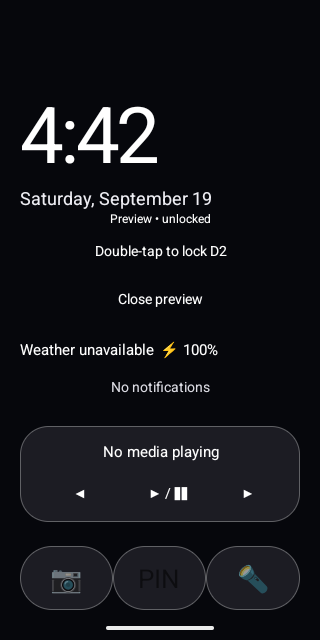
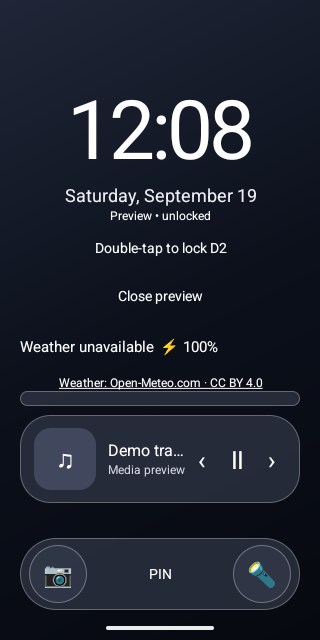
Refresh v0.4 app screenshots and gallery
* Capture v0.4 customization and visible media screenshots

* Capture shortcut settings on small emulator screen

* Keep screenshot settings fully visible on small emulator

* Fix screenshot scroll matcher import

* Frame shortcut and privacy settings in screenshot

* Refresh v0.4 screenshot gallery and documentation

diff --git a/app/src/androidTest/java/app/d2lock/ScreenshotCaptureTest.kt b/app/src/androidTest/java/app/d2lock/ScreenshotCaptureTest.kt
@@ -5,9 +5,13 @@ import android.app.ActivityManager
 import android.app.AlertDialog
 import android.content.Intent
 import android.graphics.Bitmap
+import android.media.MediaMetadata
+import android.media.session.MediaSession
+import android.media.session.PlaybackState
 import android.os.ParcelFileDescriptor
 import android.os.SystemClock
 import android.view.WindowManager
+import android.widget.ScrollView
 import androidx.test.core.app.ActivityScenario
 import androidx.test.espresso.Espresso.onView
 import androidx.test.espresso.action.ViewActions.*
@@ -18,6 +22,7 @@ import androidx.test.platform.app.InstrumentationRegistry
 import app.d2lock.lockscreen.LockScreenActivity
 import app.d2lock.root.RootKiosk
 import app.d2lock.security.PinStore
+import app.d2lock.Prefs
 import org.junit.Assert.*
 import org.junit.Assume.assumeTrue
 import org.junit.Test
@@ -61,12 +66,38 @@ class ScreenshotCaptureTest {
         assertFalse("Use a fresh emulator", pinFile.exists())
         context.getSharedPreferences("lock_preferences", 0).edit().clear().commit()
         PinStore(context).create("246810".toCharArray())
+        ParcelFileDescriptor.AutoCloseInputStream(instrumentation.uiAutomation.executeShellCommand(
+            "cmd notification allow_listener app.d2lock/app.d2lock.notifications.LockNotificationListener"
+        )).use { it.readBytes() }
+        val mediaSession = MediaSession(context, "D2ScreenshotMedia").apply {
+            setMetadata(MediaMetadata.Builder()
+                .putString(MediaMetadata.METADATA_KEY_TITLE, "Demo track")
+                .putString(MediaMetadata.METADATA_KEY_ARTIST, "Media preview")
+                .build())
+            setPlaybackState(PlaybackState.Builder()
+                .setActions(PlaybackState.ACTION_PLAY or PlaybackState.ACTION_PAUSE)
+                .setState(PlaybackState.STATE_PLAYING, 0L, 1f).build())
+            isActive = true
+        }
         try {
             ActivityScenario.launch(MainActivity::class.java).use { scenario ->
+                scenario.onActivity {
+                    it.window.setFlags(WindowManager.LayoutParams.FLAG_FULLSCREEN,
+                        WindowManager.LayoutParams.FLAG_FULLSCREEN)
+                }
                 onView(withHint("6-digit D2 PIN")).inRoot(isDialog()).perform(typeText("246810"), closeSoftKeyboard())
                 onView(withText("Unlock")).inRoot(isDialog()).perform(click())
                 waitUntil { runCatching { onView(withText("Change D2 PIN")).check(androidx.test.espresso.assertion.ViewAssertions.matches(isDisplayed())); true }.getOrDefault(false) }
                 capture(scenario, "01-settings")
+                onView(withText("When D2 is locked")).perform(scrollTo())
+                capture(scenario, "05-customization")
+                onView(withText("Right action")).perform(scrollTo())
+                scenario.onActivity { activity ->
+                    // The root content is a ScrollView; advance just enough to show both actions.
+                    val settings = (activity.findViewById<android.view.ViewGroup>(android.R.id.content)).getChildAt(0) as ScrollView
+                    settings.scrollBy(0, (125 * activity.resources.displayMetrics.density).toInt())
+                }
+                capture(scenario, "06-shortcuts")
             }
             ActivityScenario.launch<LockScreenActivity>(Intent(context, LockScreenActivity::class.java).putExtra("preview", true)).use { scenario ->
                 SystemClock.sleep(1500)
@@ -85,6 +116,10 @@ class ScreenshotCaptureTest {
                 scenario.onActivity { task = it.taskId }
                 TestDevice.focusTask(task)
                 waitUntil { context.getSystemService(ActivityManager::class.java).lockTaskModeState == ActivityManager.LOCK_TASK_MODE_LOCKED }
+                waitUntil { runCatching {
+                    onView(withText("Demo track")).check(androidx.test.espresso.assertion.ViewAssertions.matches(isDisplayed()))
+                    true
+                }.getOrDefault(false) }
                 capture(scenario, "03-kiosk-lock")
                 onView(withText("PIN")).perform(click())
                 capture(scenario, "04-pin-prompt")
@@ -95,6 +130,7 @@ class ScreenshotCaptureTest {
                 scenario.close()
             }
         } finally {
+            mediaSession.release()
             RootKiosk.testConnect = null
             Prefs.setKiosk(context, false)
             pinFile.delete()

diff --git a/README.md b/README.md
@@ -8,7 +8,7 @@ An independent Android app privacy screen with its own six-digit PIN. Version 0.
 
 ## Screenshots
 
-Captured from D2 v0.3.0 in an Android 16 emulator. Samsung/One UI appearance may differ.
+Captured from D2 v0.4.0 in an Android 16 emulator with sample media. These are not Samsung handset captures; One UI appearance may differ.
 
 <table>
   <tr>
@@ -18,6 +18,10 @@ Captured from D2 v0.3.0 in an Android 16 emulator. Samsung/One UI appearance may
   <tr>
     <td align="center"><strong>Independent D2 PIN</strong><br><img src="https://raw.githubusercontent.com/SysopBP/SamsungLockD2-Public/main/docs/screenshots/04-pin-prompt.png" width="270" alt="The six-digit D2 PIN prompt"></td>
     <td align="center"><strong>App settings</strong><br><img src="https://raw.githubusercontent.com/SysopBP/SamsungLockD2-Public/main/docs/screenshots/01-settings.png" width="270" alt="D2 settings with double-tap activation and the optional root kiosk switch"></td>
+  </tr>
+  <tr>
+    <td align="center"><strong>Appearance and media settings</strong><br><img src="https://raw.githubusercontent.com/SysopBP/SamsungLockD2-Public/main/docs/screenshots/05-customization.png" width="270" alt="Celsius and locked media settings"></td>
+    <td align="center"><strong>Privacy and bottom shortcuts</strong><br><img src="https://raw.githubusercontent.com/SysopBP/SamsungLockD2-Public/main/docs/screenshots/06-shortcuts.png" width="270" alt="Notification privacy and configurable camera and flashlight actions"></td>
   </tr>
 </table>
 
@@ -33,7 +37,7 @@ Captured from D2 v0.3.0 in an Android 16 emulator. Samsung/One UI appearance may
 
 **Show D2 when the screen wakes** is optional. Android may block background launches. Optional KernelSU root mode only requests this app's Activity launch. The bridge module can restart the opted-in service after boot; it does not provide pre-boot protection. Widget/manual activation does not require root.
 
-Notification access, camera, and approximate location are optional. Locked D2 screens hide notification identities/content and media metadata; camera and media controls are available only in authenticated Preview. Settings require the PIN again when returning from the background. PIN changes require the existing PIN.
+Notification access, camera, and approximate location are optional. Locked media metadata and playback controls can be shown through Settings when notification access is granted. Notification privacy can hide all notifications, show a count or app names, or show only content marked public by the sending app. The camera action requires the D2 PIN while locked; the flashlight can work without it. Settings require the PIN again when returning from the background. PIN changes require the existing PIN.
 
 ## Security boundary
 

diff --git a/docs/screenshots/README.md b/docs/screenshots/README.md
@@ -1,11 +1,13 @@
 # D2 screenshots
 
-These are unedited captures of D2 v0.3.0 running in an Android 16/API 36 emulator with the default background and disposable test data. They are not captures from a Samsung handset.
+These are unedited captures of D2 v0.4.0 running in an Android 16/API 36 emulator with the default background, sample media metadata, and disposable test data. They are not captures from a Samsung handset.
 
 - `01-settings.png`: authenticated app settings.
 - `02-preview.png`: unlocked lock-screen preview.
 - `03-kiosk-lock.png`: independent PIN screen with full root kiosk mode active.
 - `04-pin-prompt.png`: the D2 PIN dialog over the active lock screen.
+- `05-customization.png`: Celsius and locked media switches.
+- `06-shortcuts.png`: notification privacy and configurable bottom actions.
 
 To refresh them, run **Capture app screenshots** from the repository's Actions page and download the **D2-screenshots** artifact. Inspect the images before replacing these files.
 
